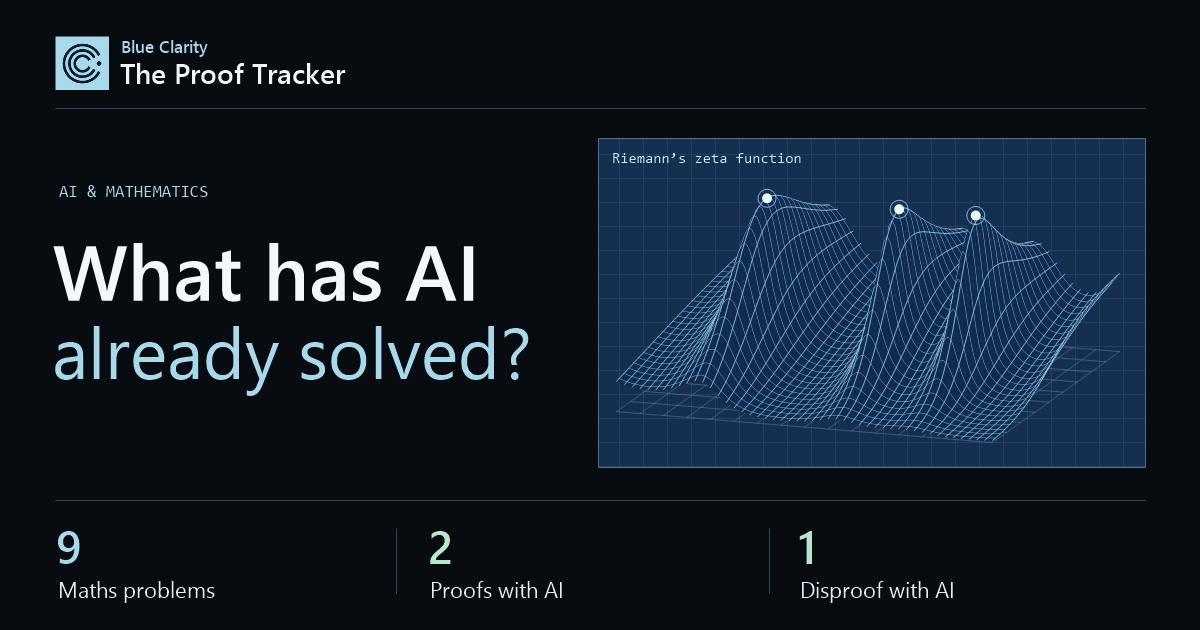
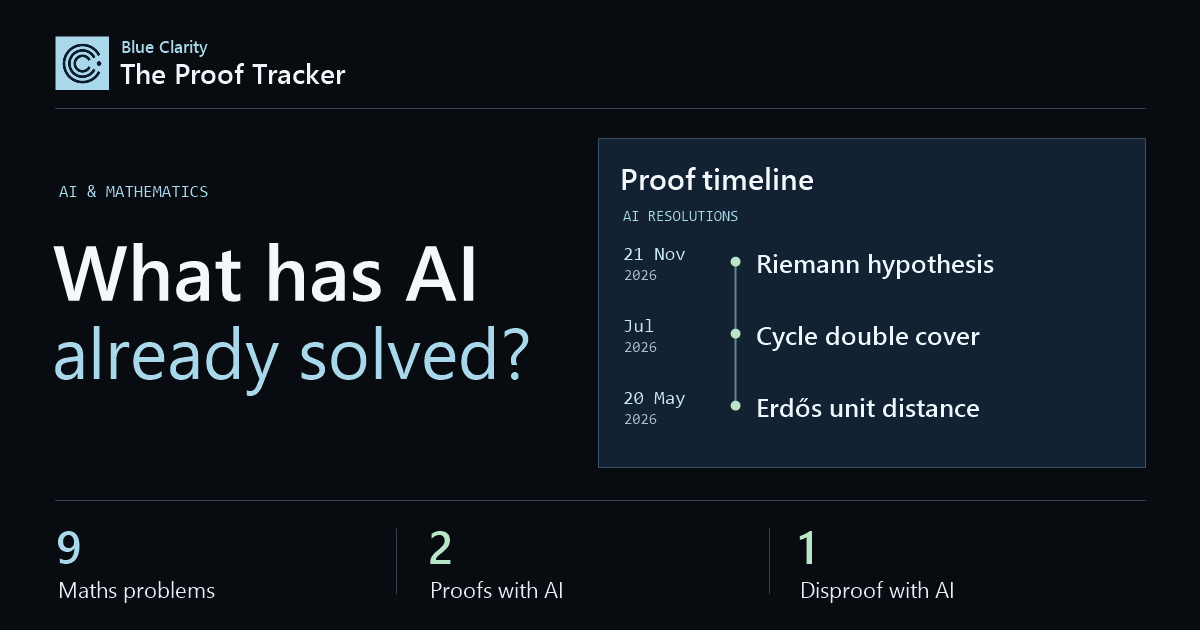
Move the proof timeline into the hero and replace the zeta plot

Changed region(s): [[0.4933, 0.2111, 0.9558, 0.754]]

diff --git a/index.html b/index.html
@@ -12,17 +12,17 @@
   <meta property="og:url" content="https://blueclarityone.github.io/math-timeline/">
   <meta property="og:title" content="What has AI already solved? | Blue Clarity">
   <meta property="og:description" content="Nine famous maths problems. Two proofs and one disproof with AI. Explore what’s still open and what’s at stake.">
-  <meta property="og:image" content="https://blueclarityone.github.io/math-timeline/proof-tracker-share.png?v=clarity-1">
+  <meta property="og:image" content="https://blueclarityone.github.io/math-timeline/proof-tracker-share.png?v=timeline-1">
   <meta property="og:image:type" content="image/png">
   <meta property="og:image:width" content="1200">
   <meta property="og:image:height" content="630">
-  <meta property="og:image:alt" content="The Proof Tracker by Blue Clarity. What has AI already solved? Nine maths problems, two proofs, one disproof. A surface plot shows three zeros of Riemann’s zeta function.">
+  <meta property="og:image:alt" content="The Proof Tracker by Blue Clarity. What has AI already solved? Nine maths problems, two proofs, one disproof. A timeline marks the Erdős, cycle double cover and Riemann results in 2026.">
   <meta name="twitter:creator" content="@blue_clarity">
   <meta name="twitter:card" content="summary_large_image">
   <meta name="twitter:title" content="What has AI already solved? | Blue Clarity">
   <meta name="twitter:description" content="Nine famous maths problems. Two proofs and one disproof with AI. Explore what’s still open and what’s at stake.">
-  <meta name="twitter:image" content="https://blueclarityone.github.io/math-timeline/proof-tracker-share.png?v=clarity-1">
-  <meta name="twitter:image:alt" content="The Proof Tracker by Blue Clarity. What has AI already solved? Nine maths problems, two proofs, one disproof. A surface plot shows three zeros of Riemann’s zeta function.">
+  <meta name="twitter:image" content="https://blueclarityone.github.io/math-timeline/proof-tracker-share.png?v=timeline-1">
+  <meta name="twitter:image:alt" content="The Proof Tracker by Blue Clarity. What has AI already solved? Nine maths problems, two proofs, one disproof. A timeline marks the Erdős, cycle double cover and Riemann results in 2026.">
   <link rel="icon" type="image/png" sizes="160x160" href="./clarity-mark.png">
   <link rel="preload" href="./assets/inter-latin.woff2" as="font" type="font/woff2" crossorigin>
   <style>@font-face{font-family:Inter;src:url("./assets/inter-latin.woff2") format("woff2");font-style:normal;font-weight:100 900;font-display:swap}
@@ -44,7 +44,7 @@ button:focus-visible,a:focus-visible,summary:focus-visible,input:focus-visible,s
 .mast{border-bottom:1px solid #293440}.nav{min-height:78px;display:flex;align-items:center;gap:46px}
 .brand{display:inline-flex;align-items:center;gap:12px;text-decoration:none;font-weight:700;letter-spacing:-.055em;font-size:1.26rem;white-space:nowrap}
 .brand img{display:block;width:38px;height:38px;flex:none}.brand-type{display:grid;gap:2px;line-height:1}.owner{font:650 .68rem/1.08 var(--sans);letter-spacing:.028em;color:var(--blue)}.publication{font-weight:650;letter-spacing:-.048em}
-.nav nav{display:flex;gap:26px}.nav nav a,.edition,.plot-key+span,.stat small{color:#c1ccd6}.nav nav a{white-space:nowrap;font-weight:500;font-size:.85rem;text-decoration:none}.nav nav a:hover,.proof-link:hover,.foot summary:hover{text-decoration:underline;text-underline-offset:4px}
+.nav nav{display:flex;gap:26px}.nav nav a,.edition,.stat small{color:#c1ccd6}.nav nav a{white-space:nowrap;font-weight:500;font-size:.85rem;text-decoration:none}.nav nav a:hover,.proof-link:hover,.foot summary:hover{text-decoration:underline;text-underline-offset:4px}
 .edition{margin-left:auto;font: .8rem var(--mono)}.edition time{color:#ecece5}
 .hero{display:grid;grid-template-columns:1.08fr 1fr;gap:4%;align-items:center;padding:52px 0 43px}
 .kicker,.overline{display:flex;align-items:center;gap:11px;font:700 .76rem/1.2 var(--mono);letter-spacing:.13em;text-transform:uppercase}
@@ -53,13 +53,35 @@ button:focus-visible,a:focus-visible,summary:focus-visible,input:focus-visible,s
 .hero h1 em,.stakes h2 em{color:var(--blue);font-style:normal;font-weight:480;letter-spacing:-.078em}
 .lede{max-width:46ch;font-size:clamp(1rem,1.35vw,1.2rem);line-height:1.52;color:#c5cdd6}
 .proof-link{display:inline-flex;gap:10px;align-items:center;margin-top:18px;padding-bottom:3px;border-bottom:1px solid #517c8f;text-decoration:none;font-weight:600;font-size:.95rem;color:#eaf8ff}.proof-link span{color:var(--blue)}
-.plate{min-width:0;position:relative;display:flex;flex-direction:column;overflow:hidden;justify-content:space-between;align-self:center;border:1px solid #375575;border-radius:4px;background-color:#102744;background-image:linear-gradient(#78acd112 1px,transparent 1px),linear-gradient(90deg,#78acd112 1px,transparent 1px),radial-gradient(ellipse at 70% 30%,#1c4064,transparent 88%);background-size:24px 24px,24px 24px,100% 100%}
-#surface{display:block;width:100%;height:clamp(190px,16.5vw,255px)}
-.plate figcaption{display:flex;align-items:center;gap:9px;padding:10px 15px;color:#d1e4f3;font:.72rem/1.4 var(--mono);border-top:1px solid #57789b70;background:#0a1b30bb}
-.plot-key{width:6px;height:6px;border-radius:50%;background:#e2faff;outline:1px solid #a8d8eaaa;outline-offset:2px;flex:none}
-.plot-head{display:flex;align-items:center;justify-content:space-between;gap:8px;padding:10px 13px;font:550 .76rem var(--sans);color:#e4f3ff;background:#0a1b30ad;border-bottom:1px solid #57789b70}
-.plot-title{display:flex;align-items:center;gap:9px}.plot-title b{font:italic 1.36rem/1 Georgia,serif;color:#c7e9f7;padding-right:9px;border-right:1px solid #60809b}
-.plot-switch{display:flex;border:1px solid #6684a0;border-radius:2px;overflow:hidden}.plot-switch button{border:0;color:#d5e5f1;background:#0c2037;padding:5px 8px;font:.72rem var(--mono)}.plot-switch button[aria-pressed=true]{color:#0e2638;background:var(--blue)}.plot-switch button:focus-visible{outline-offset:-3px}
+.visually-hidden,.history-filter input{position:absolute;width:1px;height:1px;overflow:hidden;clip-path:inset(50%);white-space:nowrap}
+.proof-history{min-width:0;align-self:start;scroll-margin-top:16px;padding:20px 23px 5px;border:1px solid #364c60;border-radius:4px;background:linear-gradient(145deg,#142638,#0c1621 75%);color:#f1f6fa}
+.history-header{display:flex;align-items:center;justify-content:space-between;gap:12px}
+.history-header h2{font-size:clamp(1.35rem,2.1vw,1.85rem);line-height:1.1;letter-spacing:-.055em;font-weight:600}
+.history-header>span{color:#adbfce;font:.76rem/1.25 var(--mono)}
+.history-filter{display:inline-flex;max-width:100%;padding:3px;margin:13px 0 5px;gap:2px;min-width:0;border:1px solid #395064;border-radius:4px;background:#08131e}
+.history-filter label{cursor:pointer;position:relative}
+.history-filter label>span{display:flex;align-items:center;gap:7px;padding:5px 9px;border-radius:2px;color:#bfd0dd;font:550 .875rem/1.28 var(--sans)}
+.history-filter b{font:500 .78rem/1 var(--mono);opacity:.85}
+.history-filter input:checked+span{background:var(--blue);color:#102431}
+.history-filter input:focus-visible+span{outline:2px solid white;outline-offset:2px}
+.history-filter label:hover span{text-decoration:underline;text-underline-offset:3px}
+.milestones{list-style:none;padding:0;margin:0}
+.milestone a{display:grid;grid-template-columns:58px 17px minmax(0,1fr);gap:8px;align-items:stretch;min-height:63px;color:inherit;text-decoration:none}
+.milestone time{display:block;padding-top:16px;color:#b8d7e8;font:550 .88rem/1.2 var(--mono);white-space:nowrap}
+.milestone time small{display:block;color:#aabac9;font-size:.72rem;margin-top:3px}
+.rail{position:relative;display:block}
+.rail::before{content:"";position:absolute;top:0;bottom:0;left:7px;width:1px;background:#476074}
+.rail::after{content:"";position:absolute;top:20px;left:4px;width:5px;height:5px;background:#142638;border:1px solid #91b0c4;border-radius:50%}
+.resolution .rail::after{background:var(--mint);border-color:var(--mint)}
+.milestone:first-child .rail::before{top:23px}
+.milestone:last-child .rail::before,.proof-history:has(input[value="resolutions"]:checked) .resolution:not(:has(~.resolution)) .rail::before{bottom:auto;height:23px}
+.milestone-copy{display:block;border-bottom:1px solid #293e4f;padding:12px 0 11px}
+.milestone:last-child .milestone-copy,.proof-history:has(input[value="resolutions"]:checked) .resolution:not(:has(~.resolution)) .milestone-copy{border-bottom-color:transparent}
+.milestone-copy b{display:block;font-size:1.03rem;line-height:1.32;font-weight:600;letter-spacing:-.03em}
+.milestone-copy>span{display:block;margin-top:3px;color:#bbcad5;font-size:.875rem;line-height:1.4}
+.milestone a:hover b,.milestone a:focus-visible b{color:var(--blue);text-decoration:underline;text-underline-offset:3px}
+.proof-history:has(input[value="resolutions"]:checked) .milestone:not(.resolution){display:none}
+@media(min-width:721px){.hero:has(input[value="all"]:checked){align-items:start}}
 .totals{display:grid;grid-template-columns:repeat(3,minmax(0,1fr));border-top:1px solid #3b4854;padding:23px 0 27px;gap:18px}
 .stat{display:flex;flex-wrap:wrap;align-items:center;gap:8px clamp(10px,1.4vw,23px);text-decoration:none;position:relative;min-width:0}
 .stat+.stat{border-left:1px solid #303d49;padding-left:clamp(16px,3vw,53px)}
@@ -69,8 +91,8 @@ button:focus-visible,a:focus-visible,summary:focus-visible,input:focus-visible,s
 .score-strip{display:flex;gap:3px;flex-basis:100%}.score-strip i{height:3px;width:9px;background:#37404b}.score-strip .on{background:var(--outcome)}.stat small.breakdown{display:block}.breakdown span{white-space:nowrap}
 .stat:hover b{text-decoration:underline;text-underline-offset:4px}.won strong{color:var(--mint)}.pending strong{color:var(--amber)}.prior strong{color:var(--lavender)}
 .catalogue{padding-block:48px 56px}.section-head{display:flex;align-items:flex-end;justify-content:space-between;gap:18px;margin-bottom:25px}
-.overline{color:#31576e}.section-head h2,.chronology h2{font-size:clamp(2rem,3.25vw,3.7rem);letter-spacing:-.065em;line-height:1.06;font-weight:650;margin-top:9px}
-.filters{position:relative}.filters>summary,.earlier>summary{border:1px solid #aeb5b3;display:inline-flex;gap:12px;align-items:center;border-radius:3px;padding:8px 13px;background:transparent;font-size:.9rem;font-weight:600;white-space:nowrap}
+.overline{color:#31576e}.section-head h2{font-size:clamp(2rem,3.25vw,3.7rem);letter-spacing:-.065em;line-height:1.06;font-weight:650;margin-top:9px}
+.filters{position:relative}.filters>summary{border:1px solid #aeb5b3;display:inline-flex;gap:12px;align-items:center;border-radius:3px;padding:8px 13px;background:transparent;font-size:.9rem;font-weight:600;white-space:nowrap}
 .filters>summary::before{content:"";width:15px;height:13px;background:linear-gradient(#263234,#263234) 0 3px/100% 1px no-repeat,linear-gradient(#263234,#263234) 0 9px/100% 1px no-repeat,linear-gradient(#263234,#263234) 3px 1px/3px 5px no-repeat,linear-gradient(#263234,#263234) 9px 7px/3px 5px no-repeat}
 .filter-body{position:absolute;right:0;top:calc(100% + 8px);background:#fafcfd;z-index:4;border:1px solid #acb6b3;padding:18px;display:grid;gap:11px;width:min(290px,86vw);box-shadow:0 10px 32px #10192220}
 .filter-body label{display:grid;gap:3px;font-weight:600;font-size:.875rem}.filter-body input,.filter-body select{width:100%;padding:7px 8px;border:1px solid #a8b4b0;background:white;border-radius:2px;font-size:1rem}
@@ -123,28 +145,24 @@ button:focus-visible,a:focus-visible,summary:focus-visible,input:focus-visible,s
 .stakes h2{font-size:clamp(2.3rem,4.3vw,4.7rem);line-height:1.01;letter-spacing:-.06em;margin-top:14px;font-weight:560}
 .stake-text{display:grid;gap:20px}.stake-text>div{border-left:2px solid #f5c6d0;padding-left:16px}.stake-text>div+div{border-color:var(--mint)}
 .stake-text h3{font-size:1.03rem;letter-spacing:-.02em;color:#f5c6d0}.stake-text>div+div h3{color:var(--mint)}.stake-text p{color:#d7d9d8;max-width:59ch;font-size:1rem;line-height:1.5;margin-top:4px}
-.chronology{display:grid;grid-template-columns:.74fr 1.26fr;gap:5%;padding-block:56px 64px}
-.events ol{list-style:none;padding:0}.event{border-top:1px solid var(--line)}.event a{position:relative;padding:13px 2px 13px 17px;text-decoration:none;display:grid;grid-template-columns:108px 1fr;align-items:baseline;gap:8px}.event a::before{content:"";position:absolute;left:1px;top:20px;width:5px;height:5px;border:1.5px solid #45748f;border-radius:50%}.event:first-child a::before{background:#45748f}.event a:hover b{text-decoration:underline;text-underline-offset:4px}.event time{font:.82rem/1.4 var(--mono);color:var(--secondary)}.event b{font-size:1rem;letter-spacing:-.025em;font-weight:620}
-.earlier>summary{margin:12px 0}.earlier>summary::after{content:"+"}.earlier[open]>summary::after{content:"−"}.earlier .when-open,.earlier[open] .when-closed{display:none}.earlier[open] .when-open{display:inline}
 .foot{display:flex;align-items:flex-start;justify-content:space-between;gap:40px;padding-block:23px 29px}.foot details{max-width:62ch;font-size:.9rem;color:#d3dae2}.foot summary{text-align:right}.foot details p{margin:12px 0 6px}.foot details a{color:var(--mint)}
 @media(min-width:1550px){.hero{padding-block:55px 45px}}
 @media(max-width:990px){.nav{gap:26px}.hero{gap:2%;grid-template-columns:1.08fr 1fr}.record>summary{grid-template-columns:1fr 14px;row-gap:7px}.record>summary .status{grid-column:1;grid-row:2;justify-self:start}.toggle{grid-column:2;grid-row:1/3}.stat+.stat{padding-left:18px}}
 @media(max-width:720px){.wrap{width:calc(100% - 36px)}.nav{min-height:57px;justify-content:space-between;gap:12px}.nav nav{gap:15px}.nav nav a{font-size:.85rem}.edition{display:none}.brand{font-size:1.1rem;gap:7px}.hero{grid-template-columns:1fr;padding:28px 0 18px}.hero-copy{z-index:1}.hero h1{font-size:clamp(3.1rem,10.9vw,5.15rem);margin:13px 0 15px}.lede{max-width:49ch;font-size:1rem}.proof-link{margin-top:13px}
-.plate{margin:4px 0 1px}.plate canvas#surface{height:clamp(155px,32vw,215px)}.plate figcaption{font-size:.74rem}
 .totals{gap:10px;padding:15px 0 19px}.stat{display:block}.score-strip{display:flex;margin-bottom:9px;gap:2px}.score-strip i{width:6px}.stat+.stat{padding-left:12px}.stat strong{font-size:2.55rem}.stat b{font-size:.95rem;line-height:1.15;margin-top:5px}.stat small{display:none}
-.catalogue{padding:32px 0 38px}.section-head{align-items:flex-start;margin-bottom:19px}.section-head h2,.chronology h2{font-size:2.1rem}.board{display:flex;flex-direction:column;gap:23px}.column{display:contents}.group{width:100%}.solved{order:1}.open{order:2}.human{order:3;margin:0}
-.record>summary{grid-template-columns:1fr auto 12px;gap:9px}.record>summary .status{grid-row:auto;grid-column:auto}.toggle{grid-column:auto;grid-row:auto}.record-name{font-size:1.05rem}.question{font-size:.92rem}.filters>summary{padding:6px 8px;font-size:.81rem}.stake-grid,.chronology{grid-template-columns:1fr;gap:24px;padding-block:33px}.timeline-intro br{display:none}.foot{gap:15px}.foot details[open]{max-width:62%}}
-@media(max-width:450px){.nav nav{gap:11px}.section-head{flex-wrap:wrap;align-items:flex-end;gap:12px}.filter-body{left:0;right:auto}.section-head .filters{margin-left:0}.section-head:has(.filters[open]){display:block}.section-head .filters[open]{margin-top:12px}.record>summary{grid-template-columns:1fr 14px;row-gap:6px}.record>summary .status{grid-column:1;grid-row:2}.toggle{grid-column:2;grid-row:1/3}.event a{grid-template-columns:93px 1fr}.foot{flex-wrap:wrap}.foot details[open]{max-width:100%}.foot details[open] summary{text-align:left}}
+.catalogue{padding:32px 0 38px}.section-head{align-items:flex-start;margin-bottom:19px}.section-head h2{font-size:2.1rem}.board{display:flex;flex-direction:column;gap:23px}.column{display:contents}.group{width:100%}.solved{order:1}.open{order:2}.human{order:3;margin:0}
+.record>summary{grid-template-columns:1fr auto 12px;gap:9px}.record>summary .status{grid-row:auto;grid-column:auto}.toggle{grid-column:auto;grid-row:auto}.record-name{font-size:1.05rem}.question{font-size:.92rem}.filters>summary{padding:6px 8px;font-size:.81rem}.stake-grid{grid-template-columns:1fr;gap:24px;padding-block:33px}.foot{gap:15px}.foot details[open]{max-width:62%}}
+@media(max-width:450px){.nav nav{gap:11px}.section-head{flex-wrap:wrap;align-items:flex-end;gap:12px}.filter-body{left:0;right:auto}.section-head .filters{margin-left:0}.section-head:has(.filters[open]){display:block}.section-head .filters[open]{margin-top:12px}.record>summary{grid-template-columns:1fr 14px;row-gap:6px}.record>summary .status{grid-column:1;grid-row:2}.toggle{grid-column:2;grid-row:1/3}.foot{flex-wrap:wrap}.foot details[open]{max-width:100%}.foot details[open] summary{text-align:left}}
 @media(max-width:350px){.wrap{width:calc(100% - 26px)}.nav{gap:5px}.nav nav{gap:7px}.nav nav a{font-size:.79rem}.brand{font-size:1rem}.hero h1{font-size:2.85rem}}
-@media(max-width:720px){.plot-head{padding:8px 11px;font-size:.74rem}.plate{margin-top:18px}}
 @media(max-width:720px){
   .night>.wrap{display:grid}.night .hero{display:contents}.hero-copy{grid-row:1;padding:28px 0 19px}
-  .totals{grid-row:2;border-bottom:1px solid #3c4143}.night .plate{grid-row:3;margin:17px 0 21px}
+  .night .proof-history{grid-row:2;margin:0 0 20px;padding:16px 14px 4px}.totals{grid-row:3}.milestone a{grid-template-columns:52px 13px minmax(0,1fr);gap:6px}.history-header h2{font-size:1.45rem}
 }
-@media(max-width:720px){.brand img{width:32px;height:32px}.brand-type{gap:3px}.owner{font-size:.61rem}.publication{font-size:.96rem}.nav{min-height:62px}.nav nav a{font-size:.8rem}.plate figcaption{font-size:.69rem;padding:9px 12px}.hero{gap:0}}
-@media(max-width:380px){.nav nav{gap:9px}.nav nav a{font-size:.74rem}.publication{font-size:.85rem}.brand img{width:29px;height:29px}.plot-title b{font-size:1.03rem}.plot-title{gap:6px}.plot-switch button{padding:5px}.stat .denominator{font-size:.62rem}.stat b{font-size:.84rem}}
+@media(max-width:720px){.brand img{width:32px;height:32px}.brand-type{gap:3px}.owner{font-size:.61rem}.publication{font-size:.96rem}.nav{min-height:62px}.nav nav a{font-size:.8rem}.hero{gap:0}}
+@media(max-width:380px){.nav nav{gap:9px}.nav nav a{font-size:.74rem}.publication{font-size:.85rem}.brand img{width:29px;height:29px}.stat .denominator{font-size:.62rem}.stat b{font-size:.84rem}}
 @media(max-width:350px){.nav{flex-wrap:wrap;justify-content:flex-start;gap:8px 20px;padding-block:10px}.nav nav{gap:14px}.nav nav a{padding-block:3px}}
-@media print{.filters,.proof-link,.nav nav,footer,.skip{display:none}.night,.mast,.stakes{background:white;color:black}.hero h1 em,.stat b,.stat small,.lede,.stake-text p{color:#222}.catalogue,.chronology{padding-block:20px}}
+@media(max-width:360px){.history-filter label>span{font-size:.82rem;gap:4px;padding:5px 7px}.night .proof-history{padding-inline:11px}.milestone a{gap:4px;grid-template-columns:50px 13px minmax(0,1fr)}}
+@media print{.filters,.proof-link,.nav nav,footer,.skip{display:none}.night,.mast,.stakes{background:white;color:black}.hero h1 em,.stat b,.stat small,.lede,.stake-text p{color:#222}.catalogue{padding-block:20px}}
 </style>
 </head>
 <body id="top">
@@ -163,14 +181,25 @@ button:focus-visible,a:focus-visible,summary:focus-visible,input:focus-visible,s
           <div class="hero-copy">
             <p class="kicker"><span class="rule"></span> AI &amp; mathematics</p>
             <h1 id="hero-title">What has AI<br><em>already solved?</em></h1>
-            <p class="lede">A prediction about prime numbers stood unproved for 167 years. On 20 November 2026, Levent Alpöge released a proof of the Riemann hypothesis developed with Claude. Independent teams checked the formal proof.</p>
+            <p class="lede">A prediction about prime numbers stood unproved for 167 years. In November 2026, independent teams checked the proof Levent Alpöge developed with Claude.</p>
             <a class="proof-link" href="#problem/riemann">Read the Riemann result <span aria-hidden="true">↗</span></a>
           </div>
-          <figure class="plate">
-            <div class="plot-head"><span class="plot-title"><b aria-hidden="true">ζ(s)</b> Riemann’s zeta function</span><div class="plot-switch" aria-label="Plot view"><button type="button" data-plot="surface" aria-pressed="true">Surface</button><button type="button" data-plot="trace" aria-pressed="false">Trace</button></div></div>
-            <canvas id="surface" role="img" aria-label="An inverse-height plot of Riemann’s zeta function. Peaks mark its first three nontrivial zeros."></canvas>
-            <figcaption><span class="plot-key"></span><span id="plot-caption">Each peak marks a place where the function reaches zero.</span></figcaption>
-          </figure>
+          <section class="proof-history" id="timeline" aria-labelledby="timeline-title">
+            <div class="history-header"><h2 id="timeline-title">Proof timeline</h2><span>Latest first</span></div>
+            <fieldset class="history-filter">
+              <legend class="visually-hidden">Milestones to show</legend>
+              <label><input type="radio" name="milestones" value="resolutions" checked><span>AI resolutions <b>3</b></span></label>
+              <label><input type="radio" name="milestones" value="all"><span>All milestones <b>8</b></span></label>
+            </fieldset>
+            <ol class="milestones" aria-label="Dated milestones"><li class="milestone resolution"><a href="#problem/riemann"><time datetime="2026-11-21">21 Nov<small>2026</small></time><span class="rail" aria-hidden="true"></span><span class="milestone-copy"><b>Riemann hypothesis</b><span>Independent teams check the proof developed with Claude.</span></span></a></li>
+<li class="milestone"><a href="#problem/riemann"><time datetime="2026-11-20">20 Nov<small>2026</small></time><span class="rail" aria-hidden="true"></span><span class="milestone-copy"><b>Riemann hypothesis</b><span>Levent Alpöge releases the formal proof.</span></span></a></li>
+<li class="milestone"><a href="#problem/navier-stokes"><time datetime="2026-11-20">20 Nov<small>2026</small></time><span class="rail" aria-hidden="true"></span><span class="milestone-copy"><b>Navier–Stokes</b><span>A second claim covers fluid flow without an external force. Review continues.</span></span></a></li>
+<li class="milestone"><a href="#problem/yang-mills"><time datetime="2026-11-10">10 Nov<small>2026</small></time><span class="rail" aria-hidden="true"></span><span class="milestone-copy"><b>Yang–Mills &amp; the mass gap</b><span>A working group checks the construction. The mass gap stays open.</span></span></a></li>
+<li class="milestone"><a href="#problem/navier-stokes"><time datetime="2026-09-08">8 Sep<small>2026</small></time><span class="rail" aria-hidden="true"></span><span class="milestone-copy"><b>Navier–Stokes</b><span>OpenAI proposes a fluid singularity. Researchers later challenge the argument.</span></span></a></li>
+<li class="milestone resolution"><a href="#problem/cycle-cover"><time datetime="2026-07">Jul<small>2026</small></time><span class="rail" aria-hidden="true"></span><span class="milestone-copy"><b>Cycle double cover</b><span>Graph theorists publish independent accounts of the AI’s proof.</span></span></a></li>
+<li class="milestone resolution"><a href="#problem/unit-distance"><time datetime="2026-05-20">20 May<small>2026</small></time><span class="rail" aria-hidden="true"></span><span class="milestone-copy"><b>Erdős unit distance</b><span>An AI finds a counterexample to Erdős’s conjecture.</span></span></a></li>
+<li class="milestone"><a href="#problem/poincare"><time datetime="2010">2010</time><span class="rail" aria-hidden="true"></span><span class="milestone-copy"><b>Poincaré conjecture</b><span>Clay awards the Millennium Prize for Perelman’s proof.</span></span></a></li></ol>
+          </section>
         </section>
         <section class="totals" aria-label="Outcomes for the nine problems tracked here">
           <a class="stat won" href="#solved"><span class="score-strip" aria-hidden="true"><i class="on"></i><i class="on"></i><i class="on"></i><i></i><i></i><i></i><i></i><i></i><i></i></span><strong>3 <span class="denominator">of 9</span></strong><span><b>Settled with AI</b><small class="breakdown"><span>2 proofs</span> · <span>1 disproof</span></small></span></a>
@@ -253,16 +282,6 @@ button:focus-visible,a:focus-visible,summary:focus-visible,input:focus-visible,s
         </div>
       </div>
     </section>
-    <section id="timeline" class="wrap chronology" aria-labelledby="timeline-title">
-      <div class="timeline-intro"><p class="overline">Timeline</p><h2 id="timeline-title">When the <br>evidence changed.</h2></div>
-      <div class="events"><ol><li class="event"><a href="#problem/riemann"><time datetime="2026-11-21">21 Nov 2026</time><b>Riemann proof independently verified</b></a></li>
-<li class="event"><a href="#problem/riemann"><time datetime="2026-11-20">20 Nov 2026</time><b>A proof of the Riemann hypothesis is released</b></a></li>
-<li class="event"><a href="#problem/navier-stokes"><time datetime="2026-11-20">20 Nov 2026</time><b>A second Navier–Stokes claim</b></a></li></ol><details class="earlier"><summary><span class="when-closed">Show earlier milestones</span><span class="when-open">Hide earlier milestones</span></summary><ol><li class="event"><a href="#problem/yang-mills"><time datetime="2026-11-10">10 Nov 2026</time><b>Yang–Mills construction assessed</b></a></li>
-<li class="event"><a href="#problem/navier-stokes"><time datetime="2026-09-08">08 Sep 2026</time><b>A proposed fluid singularity</b></a></li>
-<li class="event"><a href="#problem/cycle-cover"><time datetime="2026-07">Jul 2026</time><b>A proof for cycle double covers</b></a></li>
-<li class="event"><a href="#problem/unit-distance"><time datetime="2026-05-20">20 May 2026</time><b>A geometry conjecture overturned</b></a></li>
-<li class="event"><a href="#problem/poincare"><time datetime="2010">2010</time><b>The first Millennium Prize</b></a></li></ol></details></div>
-    </section>
   </main>
   <footer><div class="wrap foot"><a class="brand" href="#top"><img src="./clarity-mark.png" width="38" height="38" alt=""><span class="brand-type"><span class="owner">Blue Clarity</span><span class="publication">The Proof Tracker</span></span></a><details id="methodology"><summary>How we count</summary><p>We track the seven Millennium Prize Problems and two other conjectures. A checked proof or counterexample counts as a resolution. Claims under review and partial results stay open. Each entry links to its evidence. Clay awards prizes through a separate review.</p><a href="https://www.claymath.org/millennium-problems/rules/">Clay’s prize rules</a></details></div></footer>
   <script>"use strict";
@@ -322,102 +341,6 @@ button:focus-visible,a:focus-visible,summary:focus-visible,input:focus-visible,s
   }
   window.addEventListener("hashchange", followLink);
   if (location.hash) requestAnimationFrame(followLink);
-})();
-
-(() => {
-  const canvas = document.getElementById("surface");
-  const ctx = canvas.getContext("2d");
-  if (!ctx) return;
-  const zeros = [14.1347251417, 21.0220396388, 25.0108575801];
-  const low = 9.6, high = 29.2, realLow = -0.85, realHigh = 1.85;
-  const cols = 144, rows = 52;
-  const log = Array.from({length:49}, (_, n) => Math.log(n || 1));
-
-  // Euler–Maclaurin summation of zeta(s + it), with a B2 tail correction.
-  function magnitude(s, t) {
-    let a = 0, b = 0;
-    for (let n = 1; n < 48; n++) {
-      const modulus = Math.exp(-s * log[n]), angle = t * log[n];
-      a += modulus * Math.cos(angle);
-      b -= modulus * Math.sin(angle);
-    }
-    const n = 48, modulus = Math.exp(-s * log[n]), angle = t * log[n];
-    const x = modulus * Math.cos(angle), y = -modulus * Math.sin(angle), d = (s-1)**2 + t*t;
-    a += n*(x*(s-1)+y*t)/d + x/2 + (s*x-t*y)/(12*n);
-    b += n*(y*(s-1)-x*t)/d + y/2 + (s*y+t*x)/(12*n);
-    return Math.hypot(a, b);
-  }
-  const mesh = Array.from({length:rows+1}, (_, j) => Array.from({length:cols+1}, (_, i) => {
-    const m = magnitude(realLow+(realHigh-realLow)*j/rows, low+(high-low)*i/cols);
-    return 1/(1+m*m);
-  }));
-  const trace = Array.from({length:501}, (_, i) => magnitude(0.5, low+(high-low)*i/500));
-  let mode = "surface";
-  function line(points, colour, width) {
-    ctx.beginPath();
-    points.forEach(([x,y], i) => { if (i) ctx.lineTo(x,y); else ctx.moveTo(x,y); });
-    ctx.strokeStyle = colour; ctx.lineWidth = width; ctx.stroke();
-  }
-  function text(label, x, y, align = "left") {
-    ctx.fillStyle = "#c0ddea"; ctx.font = "11px Consolas, monospace"; ctx.textAlign = align;
-    ctx.fillText(label, x, y);
-  }
-  function point(x, y) {
-    ctx.beginPath(); ctx.arc(x,y,4,0,Math.PI*2);
-    ctx.fillStyle = "#efffff"; ctx.fill();
-    ctx.beginPath(); ctx.arc(x,y,7,0,Math.PI*2);
-    ctx.strokeStyle = "#b5eeffbd"; ctx.lineWidth = 1; ctx.stroke();
-  }
-  function draw() {
-    const w = canvas.clientWidth, h = canvas.clientHeight;
-    if (!w || !h) return;
-    const ratio = Math.min(window.devicePixelRatio || 1, 2);
-    canvas.width = Math.round(w*ratio); canvas.height = Math.round(h*ratio);
-    ctx.setTransform(ratio,0,0,ratio,0,0);
-    if (mode === "trace") {
-      const pad = 28;
-      const X = u => pad+(w-2*pad)*u;
-      const Y = value => h-22-(h-43)*value/3.55;
-      for (let v=0; v<=3; v++) { line([[pad,Y(v)],[w-pad,Y(v)]],"#344d70",0.7); text(String(v),pad-8,Y(v)+3,"right"); }
-      for (let t=10; t<=28; t+=3) { const x=X((t-low)/(high-low)); text(String(t),x,h-6,"center"); }
-      line(trace.map((v,i) => [X(i/500),Y(v)]),"#a8e2fc",2);
-      zeros.forEach(v => point(X((v-low)/(high-low)),Y(0)));
-      text("|ζ(½ + it)|",pad,14); text("t",w-pad+13,h-6);
-      return;
-    }
-    const project = (u,v,z) => [w*(.025+.725*u+.22*v), h*(.78+.16*u-.29*v-.58*z)];
-    for(let i=0;i<=16;i++) line([project(i/16,0,0),project(i/16,1,0)],"#6791bc68",.7);
-    for(let j=0;j<=9;j++) line([project(0,j/9,0),project(1,j/9,0)],"#6791bc68",.7);
-    // Back-to-front strips hide the far side of each peak.
-    for(let j=rows;j>0;j--) {
-      const far = mesh[j].map((z,i)=>project(i/cols,j/rows,z));
-      const near = mesh[j-1].map((z,i)=>project(i/cols,(j-1)/rows,z));
-      ctx.beginPath(); far.forEach(([x,y],i)=>{if(i) ctx.lineTo(x,y); else ctx.moveTo(x,y);});
-      for(let i=cols;i>=0;i--) ctx.lineTo(...near[i]);
-      ctx.closePath(); ctx.fillStyle="#102b50"; ctx.fill();
-      for(let i=0;i<=cols;i+=2) {
-        const z=mesh[j][i];
-        line([far[i],near[i]],"rgba(154,218,248,"+(.24+.58*z)+")",.82);
-      }
-      if(j%2===0) line(near,"rgba(181,232,255,"+(.51+.2*(1-j/rows))+")",1);
-    }
-    zeros.forEach((zero,i)=>{
-      const [x,y]=project((zero-low)/(high-low),(.5-realLow)/(realHigh-realLow),1);
-      point(x,y); if(h>170) text(zero.toFixed(2),x+10,y-6);
-    });
-    if(h>170) {const [x,y]=project(.56,0,0);text("Im(s)",x,y+19);const [a,b]=project(1,.68,0);text("Re(s)",a,b+17,"center");}
-  }
-  document.querySelectorAll("[data-plot]").forEach(button => button.addEventListener("click", () => {
-    mode = button.dataset.plot;
-    document.querySelectorAll("[data-plot]").forEach(b => b.setAttribute("aria-pressed",String(b === button)));
-    const caption = mode === "surface" ? "Each peak marks a place where the function reaches zero." : "The curve touches zero at each marked point.";
-    document.getElementById("plot-caption").textContent = caption;
-    canvas.setAttribute("aria-label",mode === "surface" ? "Inverse-height plot. Peaks mark the first three nontrivial zeros of Riemann’s zeta function." : "Magnitude along the critical line. The first three zeros fall at heights 14.13, 21.02 and 25.01.");
-    draw();
-  }));
-  if ("ResizeObserver" in window) new ResizeObserver(draw).observe(canvas);
-  else window.addEventListener("resize",draw);
-  draw();
 })();
 </script>
 </body>
